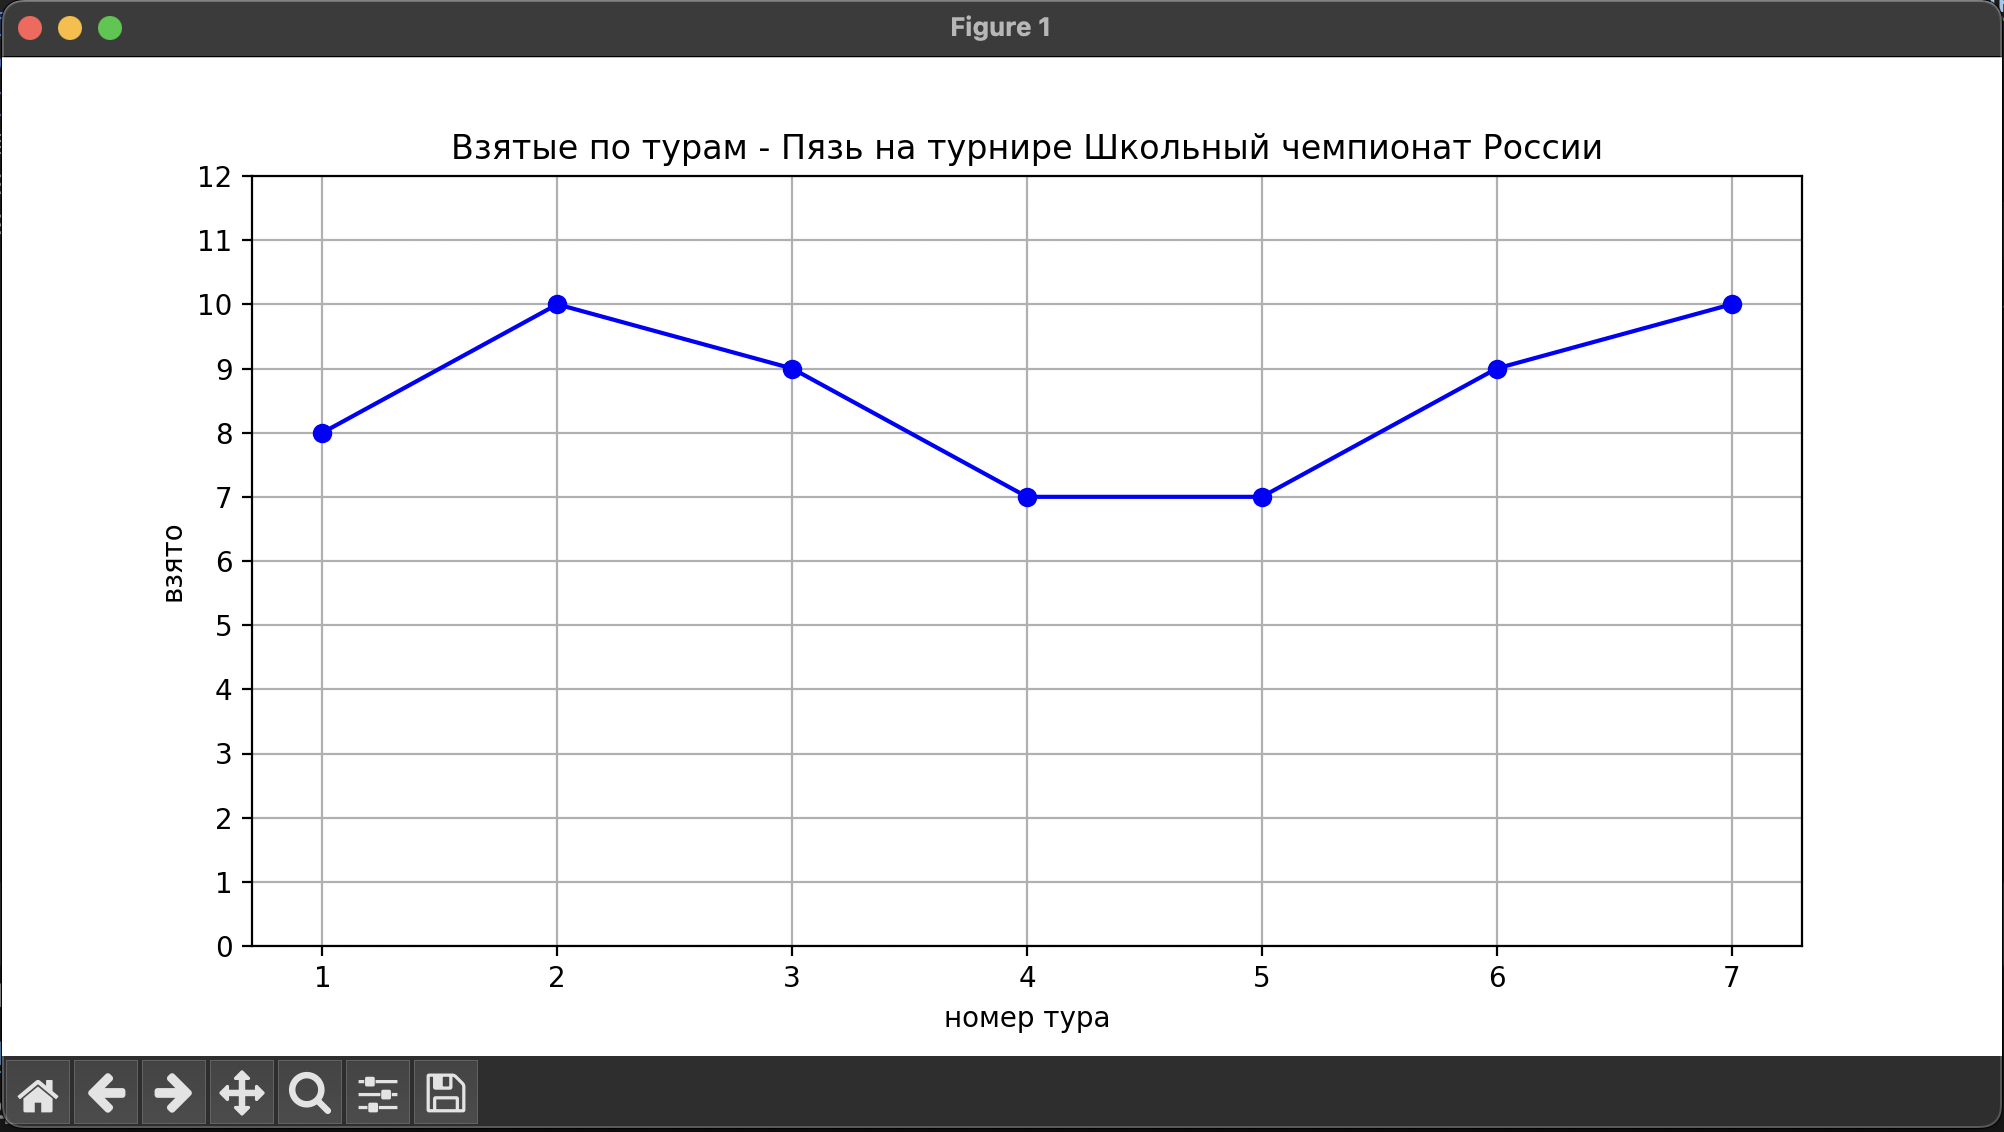
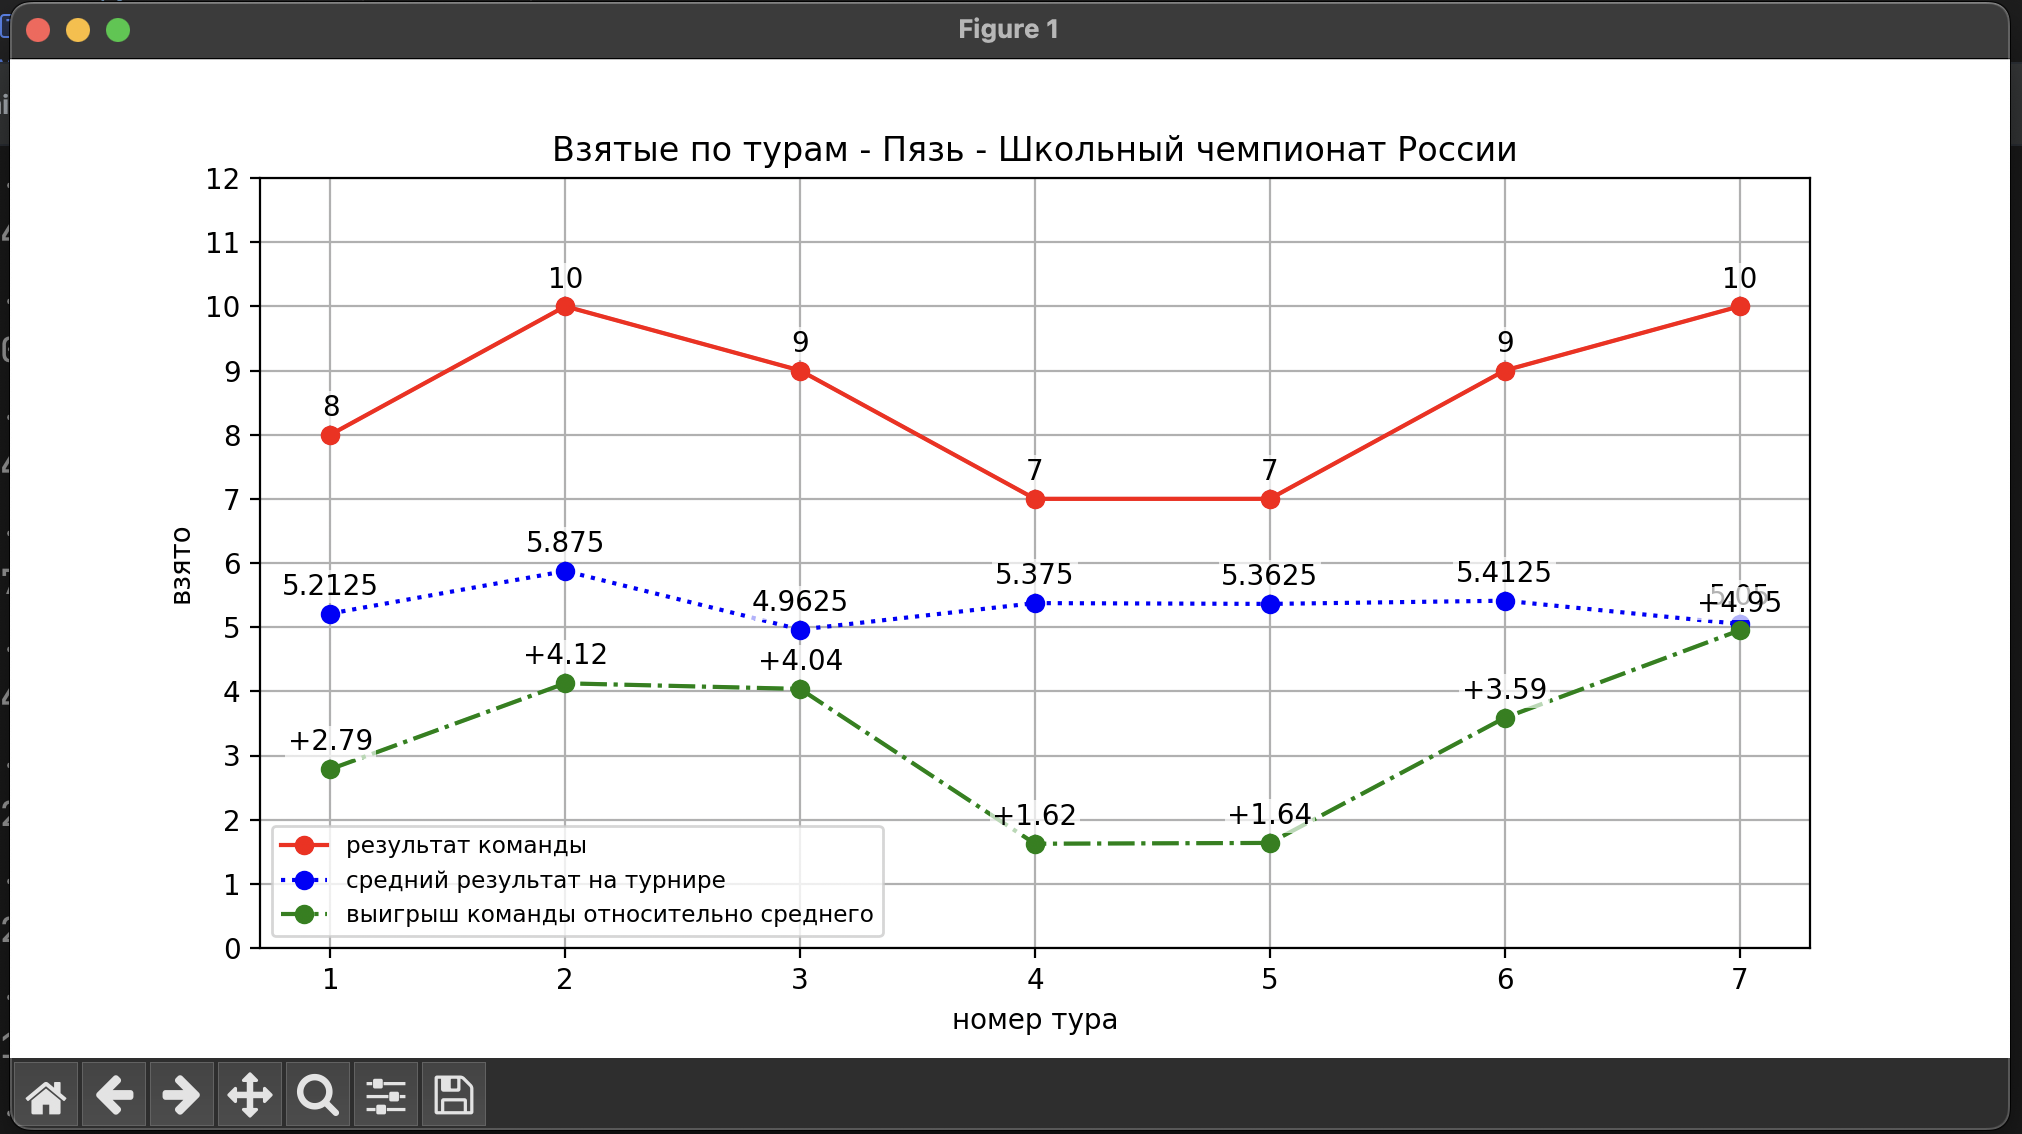
readme + added req file

diff --git a/main.py b/main.py
@@ -32,40 +32,6 @@ def get_tournament_data_for_team(tournament_id, team_id) -> dict:
     return {}  # return None if team not found
 
 
-# makes a plot of results by tour
-def show_results_by_tour(tournament_data: dict, team_data: dict) -> None:
-    # error handling
-    if not tournament_data or not team_data:
-        print("Error: Missing tournament or team data")
-        return
-
-    results_by_tour = []
-    tours = tournament_data['questionQty'].keys()
-    max_questions = max(tournament_data['questionQty'].values())
-
-    # counting answered questions for each tour
-    for tour in tours:
-        tour_questions = tournament_data['questionQty'][tour]
-        start_idx = (int(tour) - 1) * tour_questions
-        end_idx = start_idx + tour_questions
-        results = team_data['mask'][start_idx:end_idx]
-        correct = results.count('1')
-        results_by_tour.append(correct)
-
-    plt.figure(figsize=(10, 5))
-    plt.plot(tours, results_by_tour, marker='o', linestyle='-', color='b')
-
-    # format the plot
-    plt.ylim(bottom=1, top=max_questions)
-    plt.yticks(np.arange(0, max_questions + 1, step=1))
-
-    plt.title(f"Взятые по турам - {team_data['team']['name']} на турнире {tournament_data['name']}")
-    plt.xlabel("номер тура")
-    plt.ylabel("взято")
-    plt.grid(True)
-    plt.show()
-
-
 def show_relative_results_by_tour(tournament_results: dict, team_data: dict, tournament_tours_q: dict, tournament_name: str) -> None:
     # error handling
     if not tournament_results or not team_data:

diff --git a/README.md b/README.md
@@ -1,15 +1,21 @@
-# 📊 Статистика по турам для спортивного ЧГК
->файл сгенерирован ChatGPT
+# 📊 Сравнение взятых по турам на турнирах по спортивному ЧГК
 
-Этот проект предназначен для визуализации статистики по турам для команды в спортивной игре **"Что? Где? Когда?"**, используя данные с официального API [rating.chgk.info](https://rating.chgk.info).
+> описание проекта написано с помощью chatGPT
 
-## 🔧 Возможности
+Этот скрипт визуализирует **результаты команды по турам** в турнире по спортивному **"Что? Где? Когда?"** и сравнивает их со **средними результатами по турниру**, используя данные API [rating.chgk.info](https://rating.chgk.info).
 
-- Получение информации о турнире по его ID.
-- Извлечение результатов команды по ID турнира и команды.
-- Построение графика количества взятых вопросов по турам.
+Скрипт может быть полезен для наглядного отображения перфоманса на определенных турах и последующего выявления причин (усталость, редактор и т.п.) 
 
-## 🧪 Зависимости
+## 🔧 Основные возможности
+
+- Загрузка информации о турнире и его результатах.
+- Извлечение статистики команды по ID.
+- Подсчёт количества взятых вопросов по турам.
+- Построение сравнительного графика:
+  - результат вашей команды,
+  - среднее значение по всем командам.
+
+## 📦 Зависимости
 
 - Python 3.7+
 - `requests`
@@ -17,7 +23,6 @@
 - `numpy`
 
 Установка зависимостей:
-
 ```bash
 pip install -r requirements.txt
 ````
@@ -30,29 +35,23 @@ pip install -r requirements.txt
 python main.py <ID_ТУРНИРА> <ID_КОМАНДЫ>
 ```
 
-### Аргументы:
-
-* `--tournament_id` — ID турнира (доступен в URL на [chgk.info](https://chgk.info)).
-* `--team_id` — ID команды (также доступен на сайте).
-
 ## 📈 Пример графика
 
-Ниже показан пример графика, который строит скрипт:
+На графике отображены:
+
+* **Ось X** — номера туров.
+* **Ось Y** — количество взятых вопросов.
+* **Красная линия** — результаты вашей команды.
+* **Синяя линия** — средние результаты по турниру.
+* **Зеленая линия** — ваш выигрыш относительно среднего результата.
 
 ![img.png](img.png)
 
-### 📋 Описание формата графика:
+## 🛰 Источник данных
 
-* **Ось X** — номер тура.
-* **Ось Y** — количество взятых вопросов в туре.
-* **Заголовок графика** — содержит название команды и турнира.
-* Синие точки соединены линией для наглядности прогресса команды.
-
-## 📡 Источник данных
-
-Все данные загружаются через открытое API:
+Все данные получаются через официальное API:
 [https://api.rating.chgk.info](https://api.rating.chgk.info)
 
-## 📄 Лицензия
+## 📝 Лицензия
 
 MIT License
